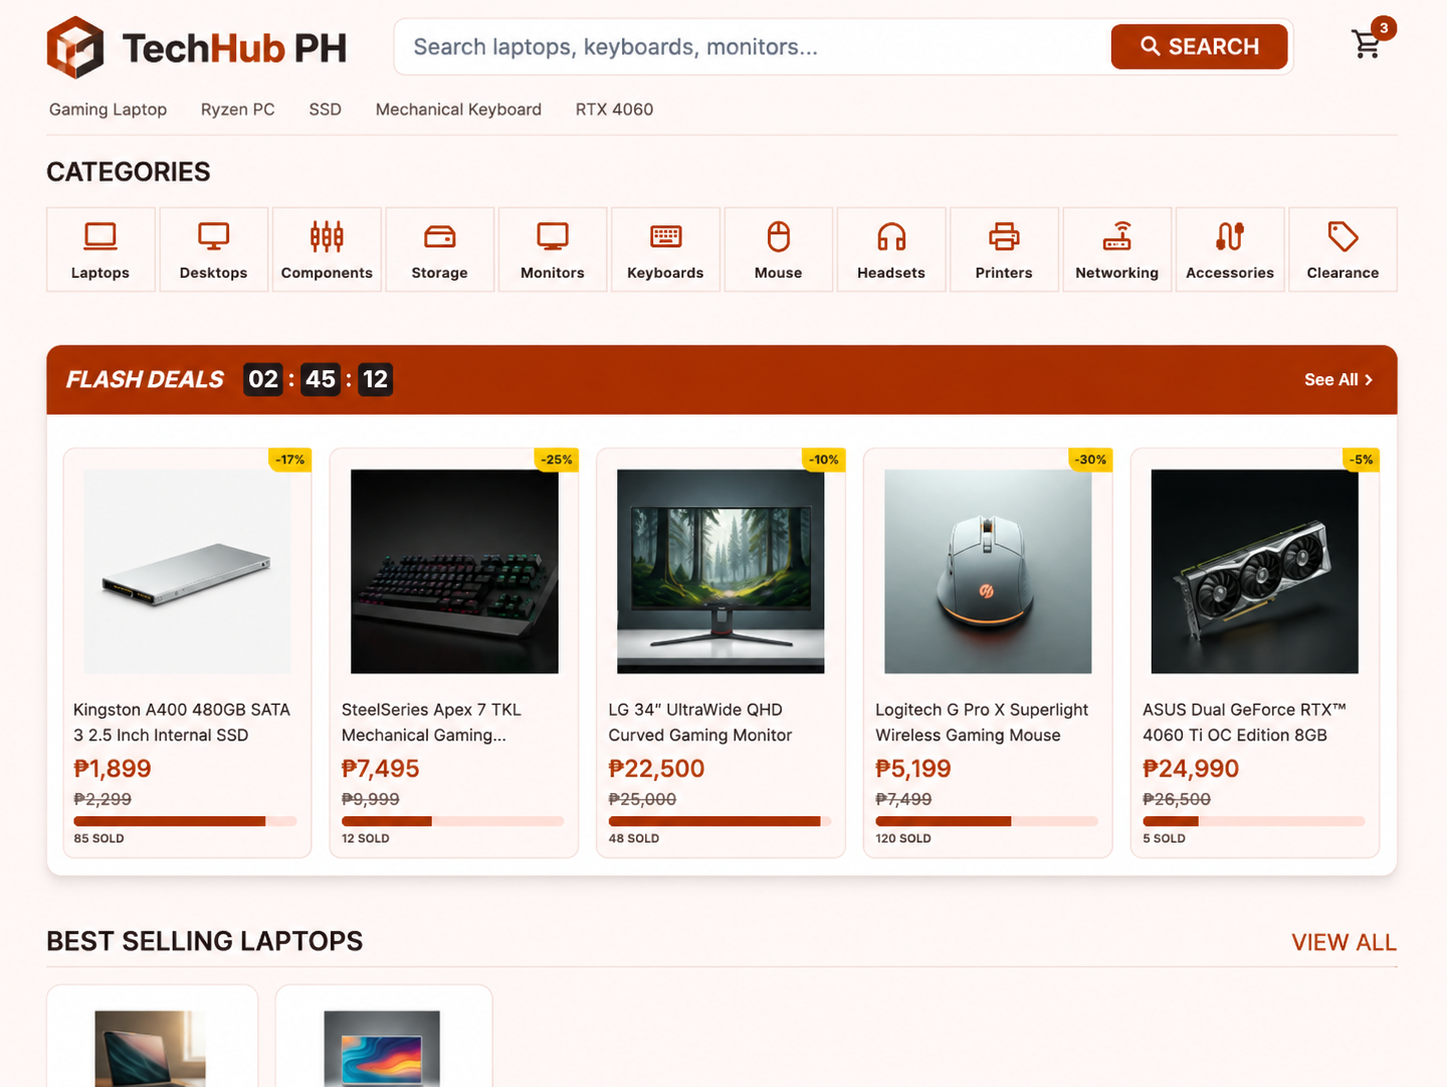
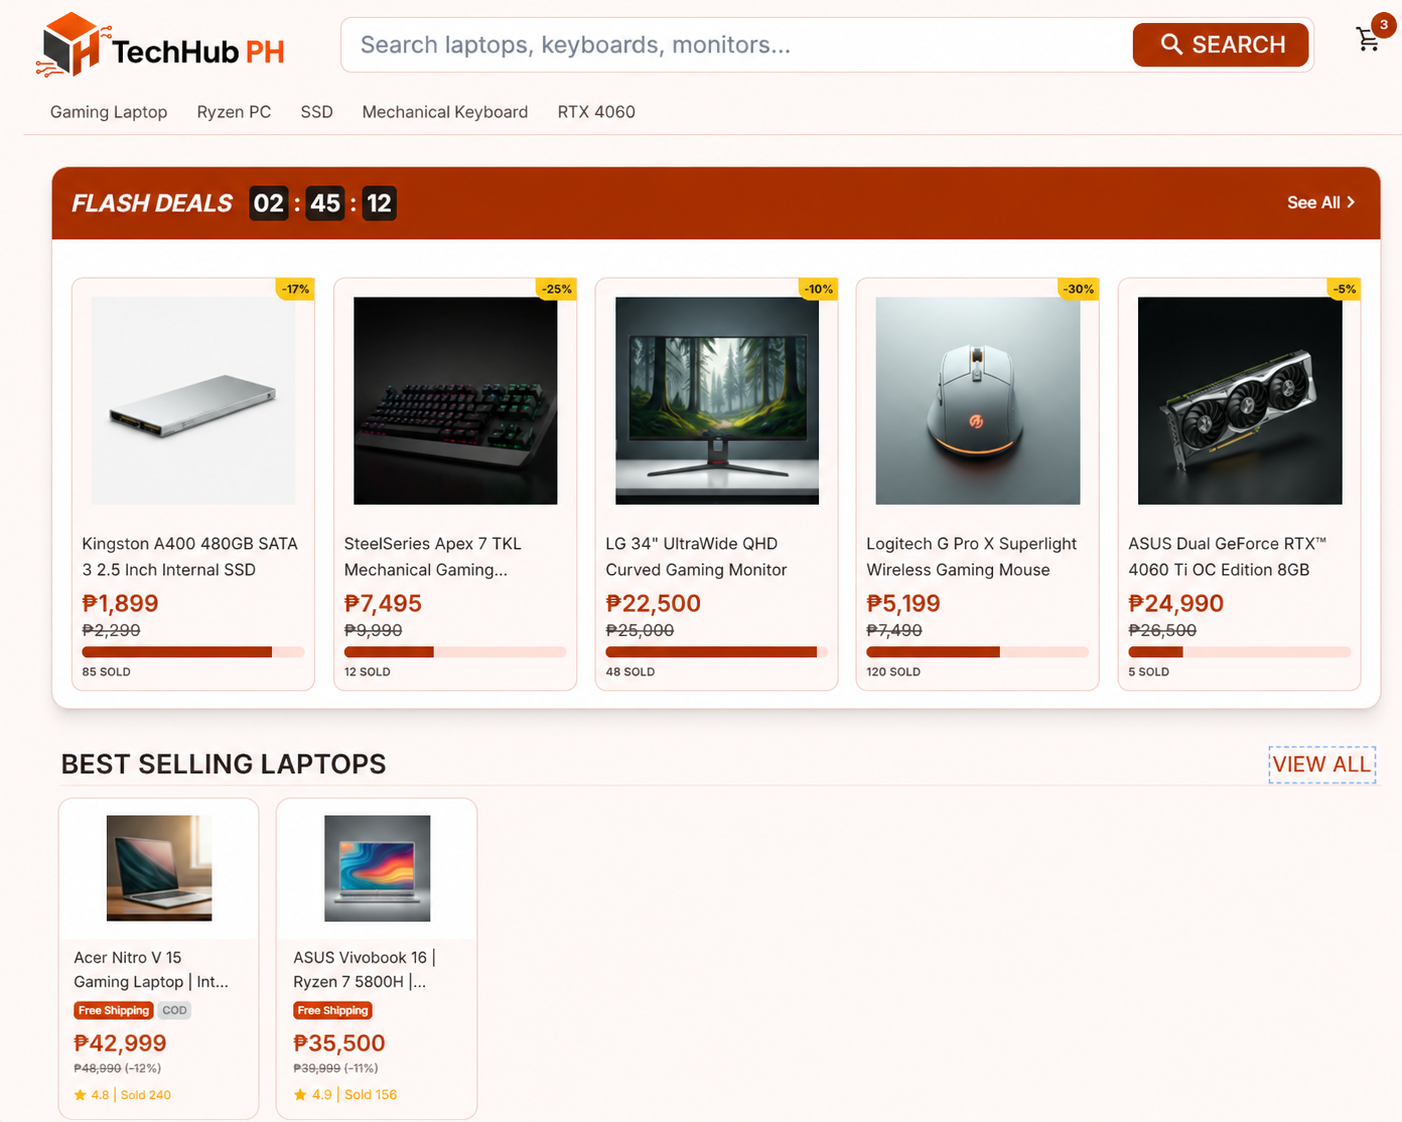
added a project

diff --git a/app/projects/page.tsx b/app/projects/page.tsx
@@ -1,14 +1,29 @@
 import CtaBanner from "@/components/CtaBanner";
 import Navbar from "@/components/Navbar";
 import ProjectSlideshow from "@/components/ProjectSlideshow";
+import { readdirSync } from "node:fs";
+import path from "node:path";
 
 type Project = {
   title: string;
   description: string;
   tag: string;
   color: string;
-  imageFolder?: string;
+  imageFolder: string;
+  imageFiles: string[];
 };
+
+const imageExtensions = new Set([".jpg", ".jpeg", ".png", ".webp", ".avif", ".gif"]);
+
+function getProjectImageFiles(folder: string) {
+  const folderPath = path.join(process.cwd(), "public", "projects", folder);
+
+  return readdirSync(folderPath)
+    .filter((fileName) => imageExtensions.has(path.extname(fileName).toLowerCase()))
+    .sort((firstFile, secondFile) => firstFile.localeCompare(secondFile));
+}
+
+const featuredImageFiles = getProjectImageFiles("featured");
 
 const projects: Project[] = [
   {
@@ -17,6 +32,15 @@ const projects: Project[] = [
     tag: "Online Store",
     color: "bg-pink-400",
     imageFolder: "techhub",
+    imageFiles: getProjectImageFiles("techhub"),
+  },
+  {
+    title: "FitBayan Gym",
+    description: "A fitness website where members can explore gym programs, view membership options, check facilities, and contact the gym to start their fitness journey.",
+    tag: "Fitness Website",
+    color: "bg-blue-400",
+    imageFolder: "fitbayan",
+    imageFiles: getProjectImageFiles("fitbayan"),
   },
 ]
 
@@ -61,7 +85,12 @@ export default function Projects() {
           <div className="flex h-12 items-center border-b-4 border-black bg-[#bdecfd] px-5">
             <BrowserDots />
           </div>
-          <ProjectSlideshow priority />
+          <ProjectSlideshow
+            folder="featured"
+            imageFiles={featuredImageFiles}
+            priority
+            projectTitle="Featured project"
+          />
         </div>
       </header>
 
@@ -94,18 +123,15 @@ function ProjectCard({ project }: { project: Project }) {
       </div>
 
       <div className="p-0">
-        {project.imageFolder ? (
-          <ProjectSlideshow
-            className="project-img relative mb-4 min-h-[400px] overflow-hidden border-b-4 border-black bg-[#f7f7f2]"
-            folder={project.imageFolder}
-            imageClassName="origin-top-left scale-[1]"
-            imagePositionClassName="object-left-top"
-            projectTitle={project.title}
-            sizes="(max-width: 650px) calc(100vw - 56px), (max-width: 1024px) calc((100vw - 88px) / 2), calc((100vw - 112px) / 3)"
-          />
-        ) : (
-          <div className="project-img relative mb-4 min-h-[400px] overflow-hidden border-b-4 border-black bg-[#f7f7f2]" />
-        )}
+        <ProjectSlideshow
+          className="project-img relative mb-4 min-h-[400px] overflow-hidden border-b-4 border-black bg-[#f7f7f2]"
+          folder={project.imageFolder}
+          imageFiles={project.imageFiles}
+          imageClassName="origin-top-left scale-[1]"
+          imagePositionClassName="object-left-top"
+          projectTitle={project.title}
+          sizes="(max-width: 650px) calc(100vw - 56px), (max-width: 1024px) calc((100vw - 88px) / 2), calc((100vw - 112px) / 3)"
+        />
 
         <h2 className="px-4 text-2xl font-black leading-tight max-[500px]:text-xl">
           {project.title}

diff --git a/components/ProjectSlideshow.tsx b/components/ProjectSlideshow.tsx
@@ -3,19 +3,12 @@
 import Image from "next/image";
 import { useEffect, useState } from "react";
 
-const slideFiles = [
-  "homepage.png",
-  "homepage1.png",
-  "productdetail.png",
-  "productdetail1.png",
-  "checkout.png",
-];
-
 type ProjectSlideshowProps = {
   className?: string;
-  folder?: string;
+  folder: string;
   imageClassName?: string;
   imagePositionClassName?: string;
+  imageFiles: string[];
   priority?: boolean;
   projectTitle?: string;
   sizes?: string;
@@ -23,9 +16,10 @@ type ProjectSlideshowProps = {
 
 export default function ProjectSlideshow({
   className = "relative min-h-[320px] flex-1 overflow-hidden",
-  folder = "techhub",
+  folder,
   imageClassName = "",
   imagePositionClassName = "object-top",
+  imageFiles,
   priority = false,
   projectTitle = "Project",
   sizes = "(max-width: 1024px) calc(100vw - 72px), 43vw",
@@ -33,16 +27,24 @@ export default function ProjectSlideshow({
   const [activeSlide, setActiveSlide] = useState(0);
 
   useEffect(() => {
+    if (imageFiles.length <= 1) {
+      return;
+    }
+
     const timer = window.setInterval(() => {
-      setActiveSlide((currentSlide) => (currentSlide + 1) % slideFiles.length);
+      setActiveSlide((currentSlide) => (currentSlide + 1) % imageFiles.length);
     }, 4000);
 
     return () => window.clearInterval(timer);
-  }, []);
+  }, [imageFiles.length]);
+
+  if (imageFiles.length === 0) {
+    return <div className={className} />;
+  }
 
   return (
     <div className={className}>
-      {slideFiles.map((fileName, index) => (
+      {imageFiles.map((fileName, index) => (
         <Image
           key={`${folder}-${fileName}`}
           src={`/projects/${folder}/${fileName}`}
@@ -52,7 +54,7 @@ export default function ProjectSlideshow({
           className={`object-cover ${imagePositionClassName} transition-opacity duration-700 ease-in-out ${imageClassName} ${
             index === activeSlide ? "opacity-100" : "opacity-0"
           }`}
-          priority={priority && index === 0}
+          loading={priority && index === 0 ? "eager" : "lazy"}
         />
       ))}
     </div>

diff --git a/app/about/page.tsx b/app/about/page.tsx
@@ -58,8 +58,9 @@ export default function About() {
             src="/me1.png"
             alt="John Carlo Ramos"
             fill
+            sizes="(max-width: 500px) calc(100vw - 24px), (max-width: 1024px) calc(100vw - 32px), 52vw"
             className="object-cover object-[center_20%]"
-            priority
+            loading="eager"
           />
         </div>
       </section>

diff --git a/app/page.tsx b/app/page.tsx
@@ -48,8 +48,9 @@ export default function Home() {
             src="/me1.png"
             alt="Web developer illustration"
             fill
+            sizes="(max-width: 500px) calc(100vw - 56px), (max-width: 1024px) calc(100vw - 80px), calc((100vw - 112px) / 2)"
             className="object-cover max-[500px]:object-[center_30%]"
-            priority
+            loading="eager"
           />
         </div>
       </section>

diff --git a/components/CtaBanner.tsx b/components/CtaBanner.tsx
@@ -11,6 +11,7 @@ export default function CtaBanner() {
             src="/me1.png"
             alt="John Carlo Ramos"
             fill
+            sizes="(max-width: 650px) calc(100vw - 24px), (max-width: 1024px) 120px, 140px"
             className="object-cover object-[center_20%]"
           />
         </div>